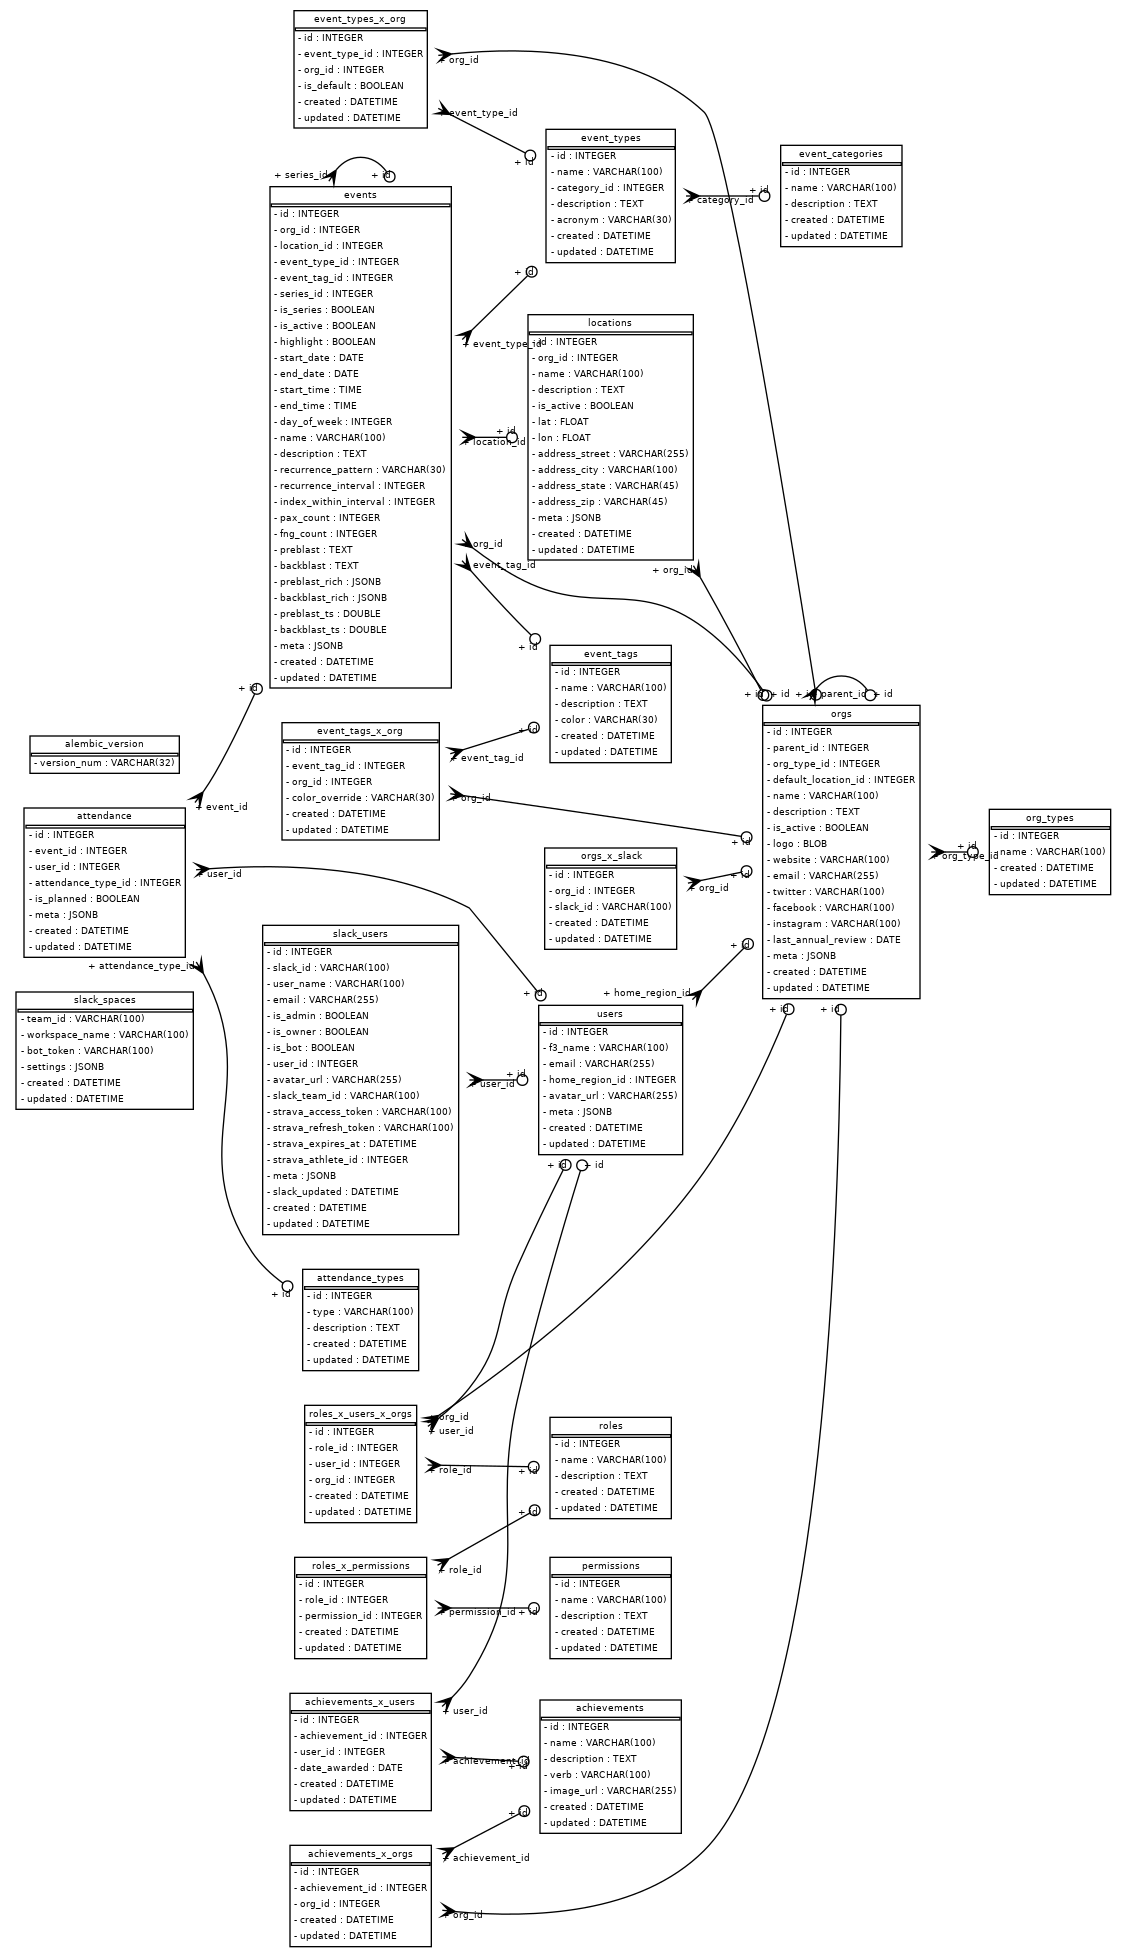
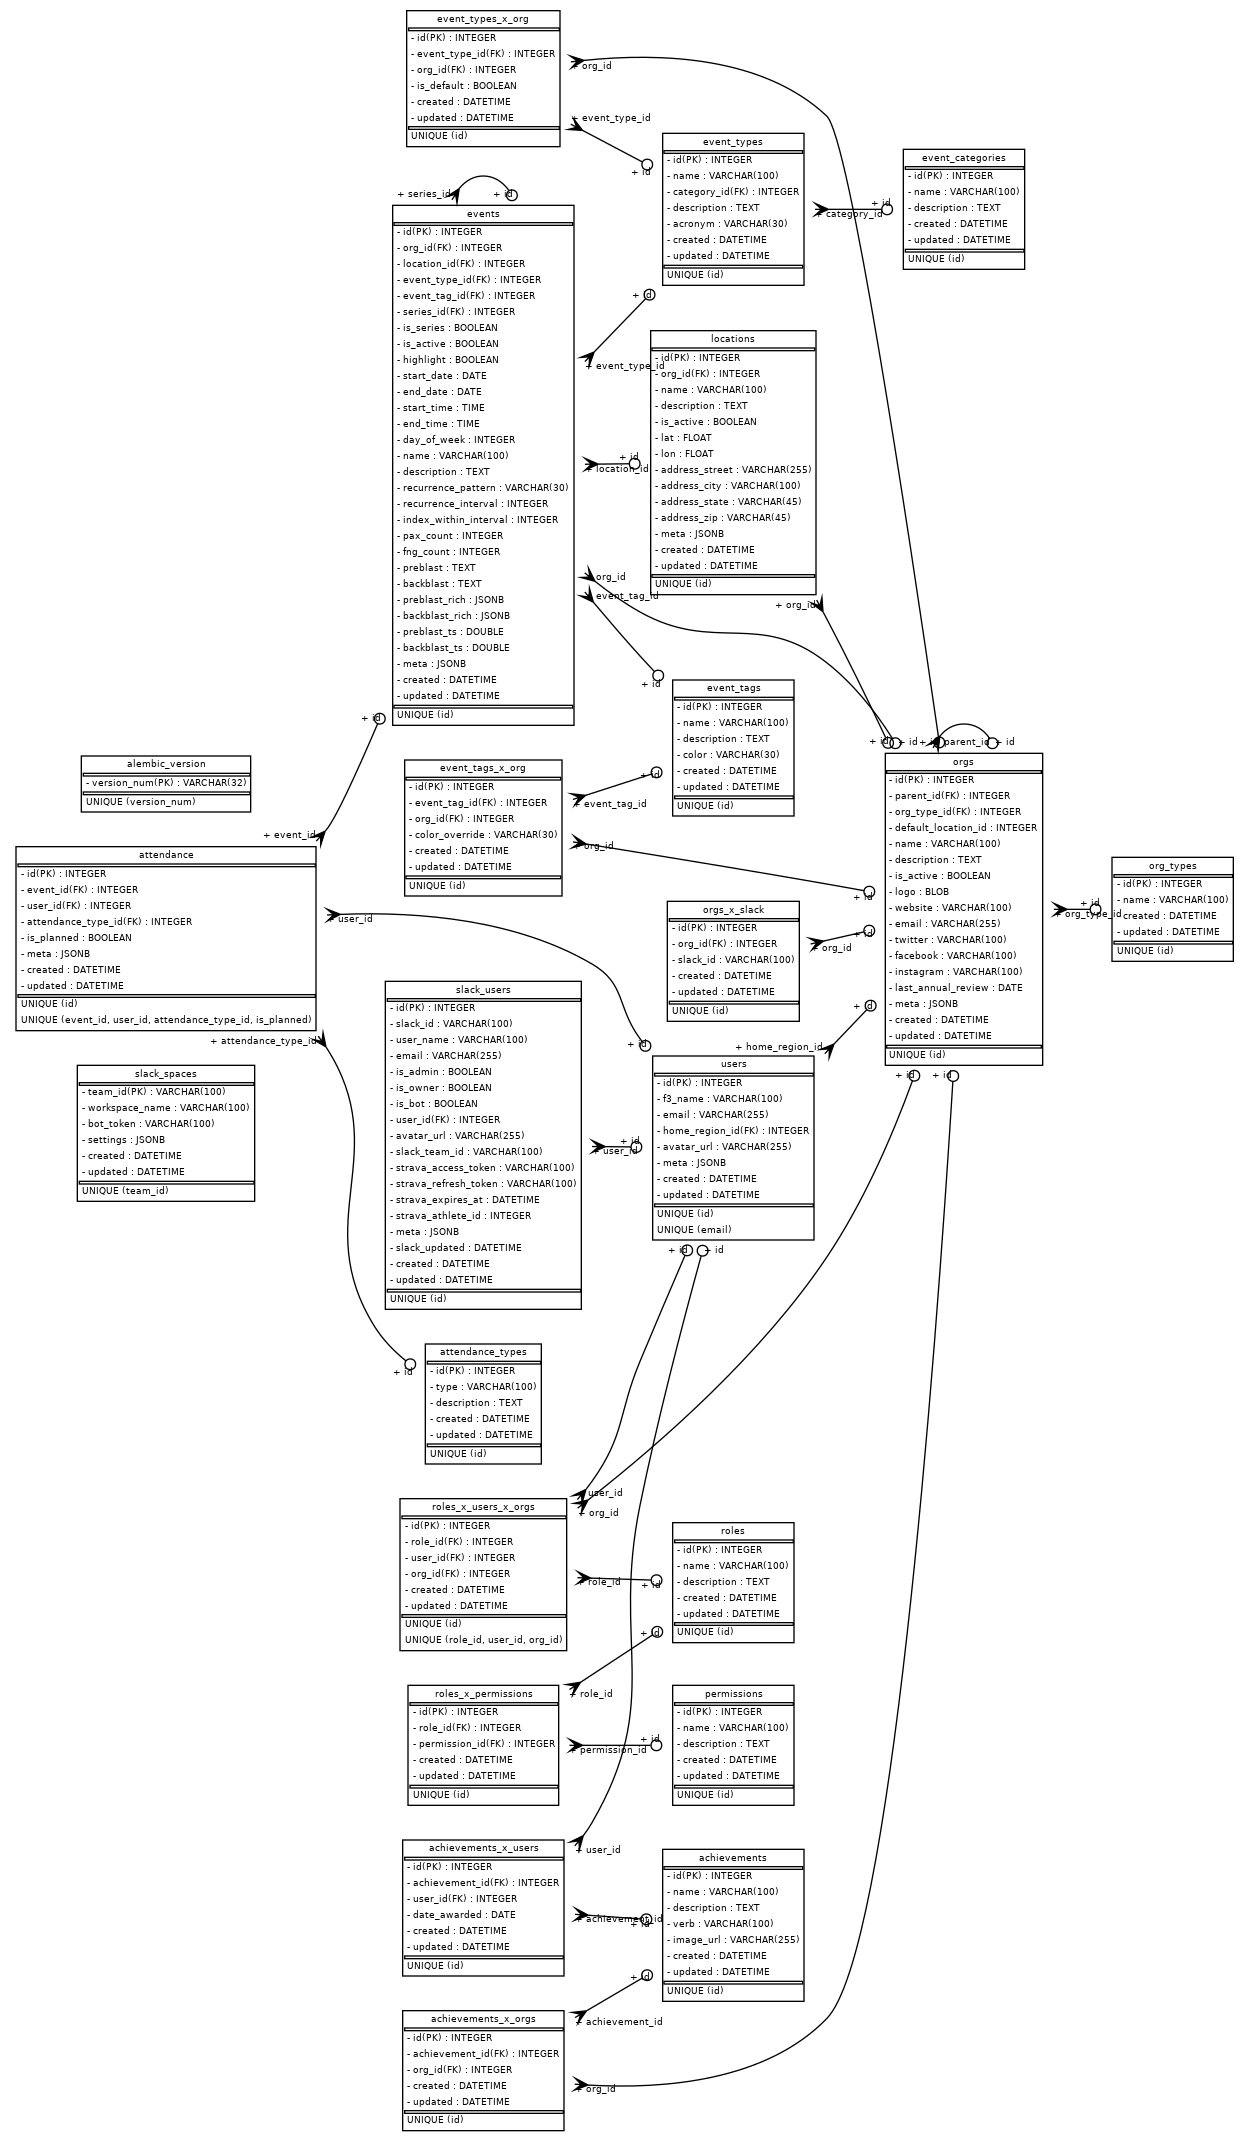
more formatting

diff --git a/utilities/database/diagram.py b/utilities/database/diagram.py
@@ -14,9 +14,9 @@ def create_diagram():
         engine=get_engine(),
         metadata=BaseClass.metadata,
         show_datatypes=True,
-        show_indexes=False,
+        show_indexes=True,
         rankdir="LR",
-        concentrate=False,
+        show_column_keys=True,
     )
     graph.write_png("utilities/database/schema.png")
 
